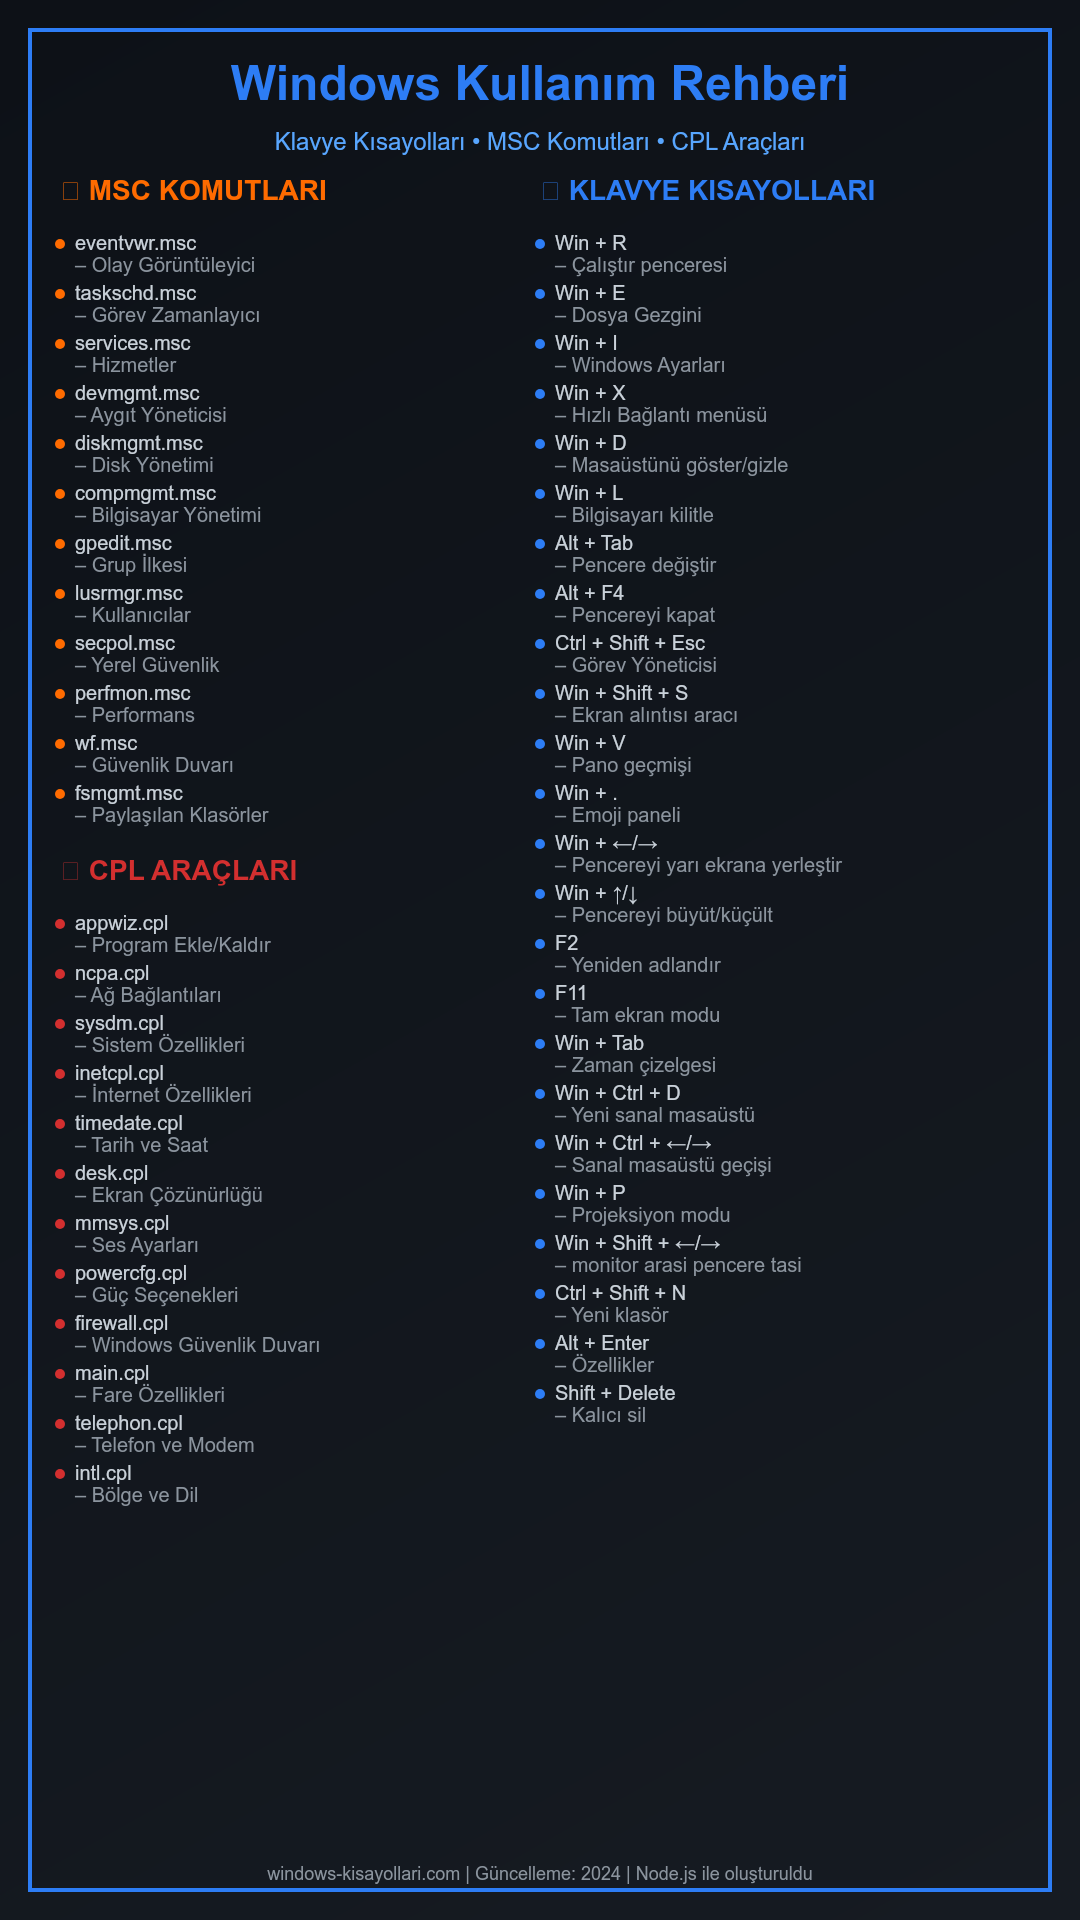
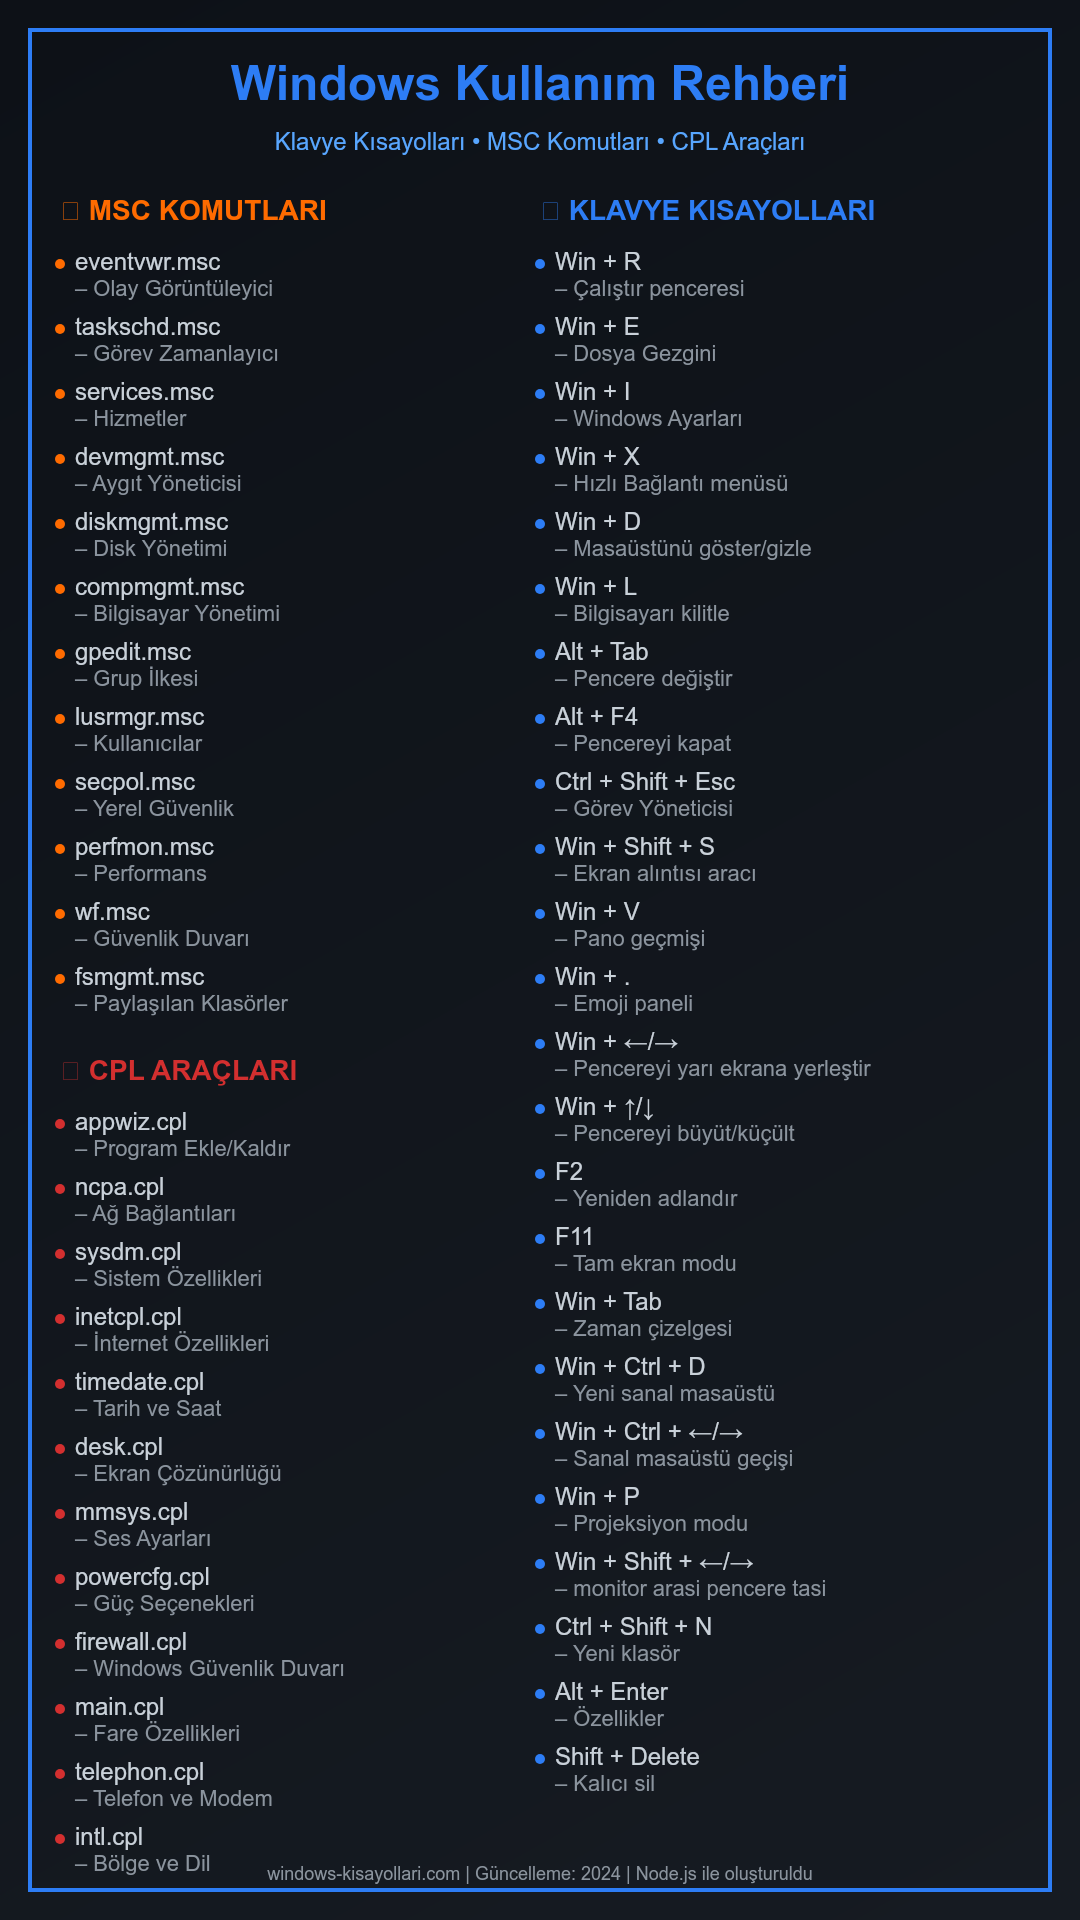
Meta başlığın altındaki boşluk azaltıld

diff --git a/script.js b/script.js
@@ -98,7 +98,7 @@ async function createWallpaper(data) {
   const rightX = leftX + colWidth;
   
   // Sol sütun çizimi
-  let leftY = 200;
+  let leftY = 220;
   leftSections.forEach((section) => {
     // Bölüm başlığı
     ctx.fillStyle = section.color;
@@ -110,7 +110,7 @@ async function createWallpaper(data) {
     
     // Maddeler
     ctx.fillStyle = meta.colors.text;
-    ctx.font = `${wallpaper.fontSizes.item}px Arial`;
+    ctx.font = `${wallpaper.fontSizes.item + 4}px Arial`;
     
     section.items.forEach((item, itemIndex) => {
       // Nokta
@@ -123,16 +123,18 @@ async function createWallpaper(data) {
       ctx.fillStyle = meta.colors.text;
       ctx.fillText(item.command, leftX + 15, leftY);
       ctx.fillStyle = '#8b949e';
-      ctx.fillText(`– ${item.description}`, leftX + 15, leftY + 22);
+      ctx.font = `${wallpaper.fontSizes.item + 2}px Arial`;
+      ctx.fillText(`– ${item.description}`, leftX + 15, leftY + 26);
+      ctx.font = `${wallpaper.fontSizes.item + 4}px Arial`;
       
-      leftY += 50;
+      leftY += 65;
     });
     
     leftY += 30; // Bölümler arası boşluk
   });
   
   // Sağ sütun çizimi
-  let rightY = 200;
+  let rightY = 220;
   rightSections.forEach((section) => {
     // Bölüm başlığı
     ctx.fillStyle = section.color;
@@ -144,7 +146,7 @@ async function createWallpaper(data) {
     
     // Maddeler
     ctx.fillStyle = meta.colors.text;
-    ctx.font = `${wallpaper.fontSizes.item}px Arial`;
+    ctx.font = `${wallpaper.fontSizes.item + 4}px Arial`;
     
     section.items.forEach((item, itemIndex) => {
       // Nokta
@@ -157,9 +159,11 @@ async function createWallpaper(data) {
       ctx.fillStyle = meta.colors.text;
       ctx.fillText(item.command, rightX + 15, rightY);
       ctx.fillStyle = '#8b949e';
-      ctx.fillText(`– ${item.description}`, rightX + 15, rightY + 22);
+      ctx.font = `${wallpaper.fontSizes.item + 2}px Arial`;
+      ctx.fillText(`– ${item.description}`, rightX + 15, rightY + 26);
+      ctx.font = `${wallpaper.fontSizes.item + 4}px Arial`;
       
-      rightY += 50;
+      rightY += 65;
     });
     
     rightY += 30; // Bölümler arası boşluk
